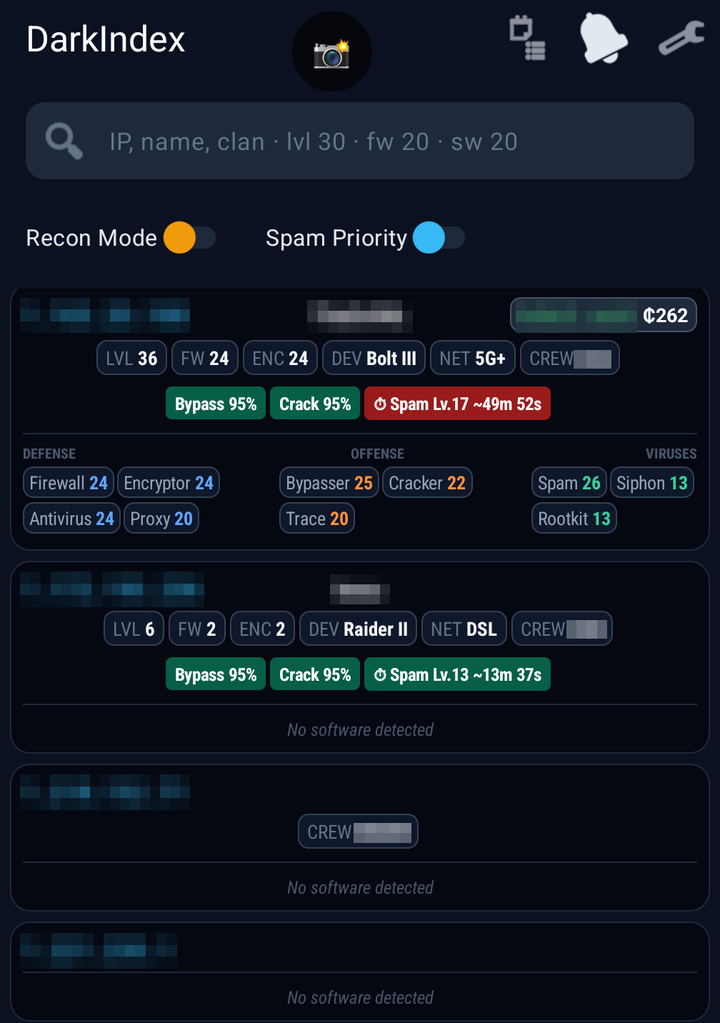
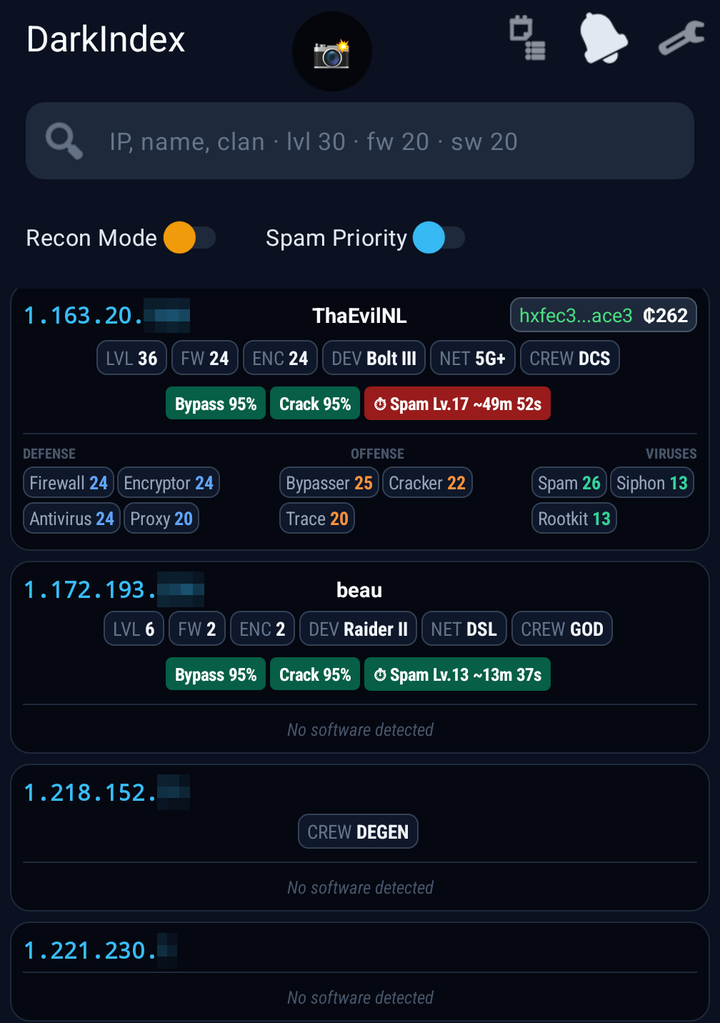
README dashboard image: blur only the last octet of each IP
Claude-Session: https://claude.ai/code/session_01SqYafXJkpUu3SXFuDhPF5t

diff --git a/README.md b/README.md
@@ -6,7 +6,7 @@ Vibe-coded to the moon and back, just like the game.
 
 <p align="center"><img src="docs/images/dashboard.png" width="360" alt="The DarkIndex dashboard: four target cards at different stages of scouting"></p>
 
-Each card fills in as you scrape. From the bottom up: a bare IP (seen in a log or process list), a crew tag (from a crew roster), level and hardware with hack odds and a Spam upload time (from the target's Home screen), and a full card with the wallet and its income, plus every app's level (from the Wallet and Software screens). Other players' details are blurred here.
+Each card fills in as you scrape. From the bottom up: a bare IP (seen in a log or process list), a crew tag (from a crew roster), level and hardware with hack odds and a Spam upload time (from the target's Home screen), and a full card with the wallet and its income, plus every app's level (from the Wallet and Software screens). The last part of each IP is blurred.
 
 ---
 
